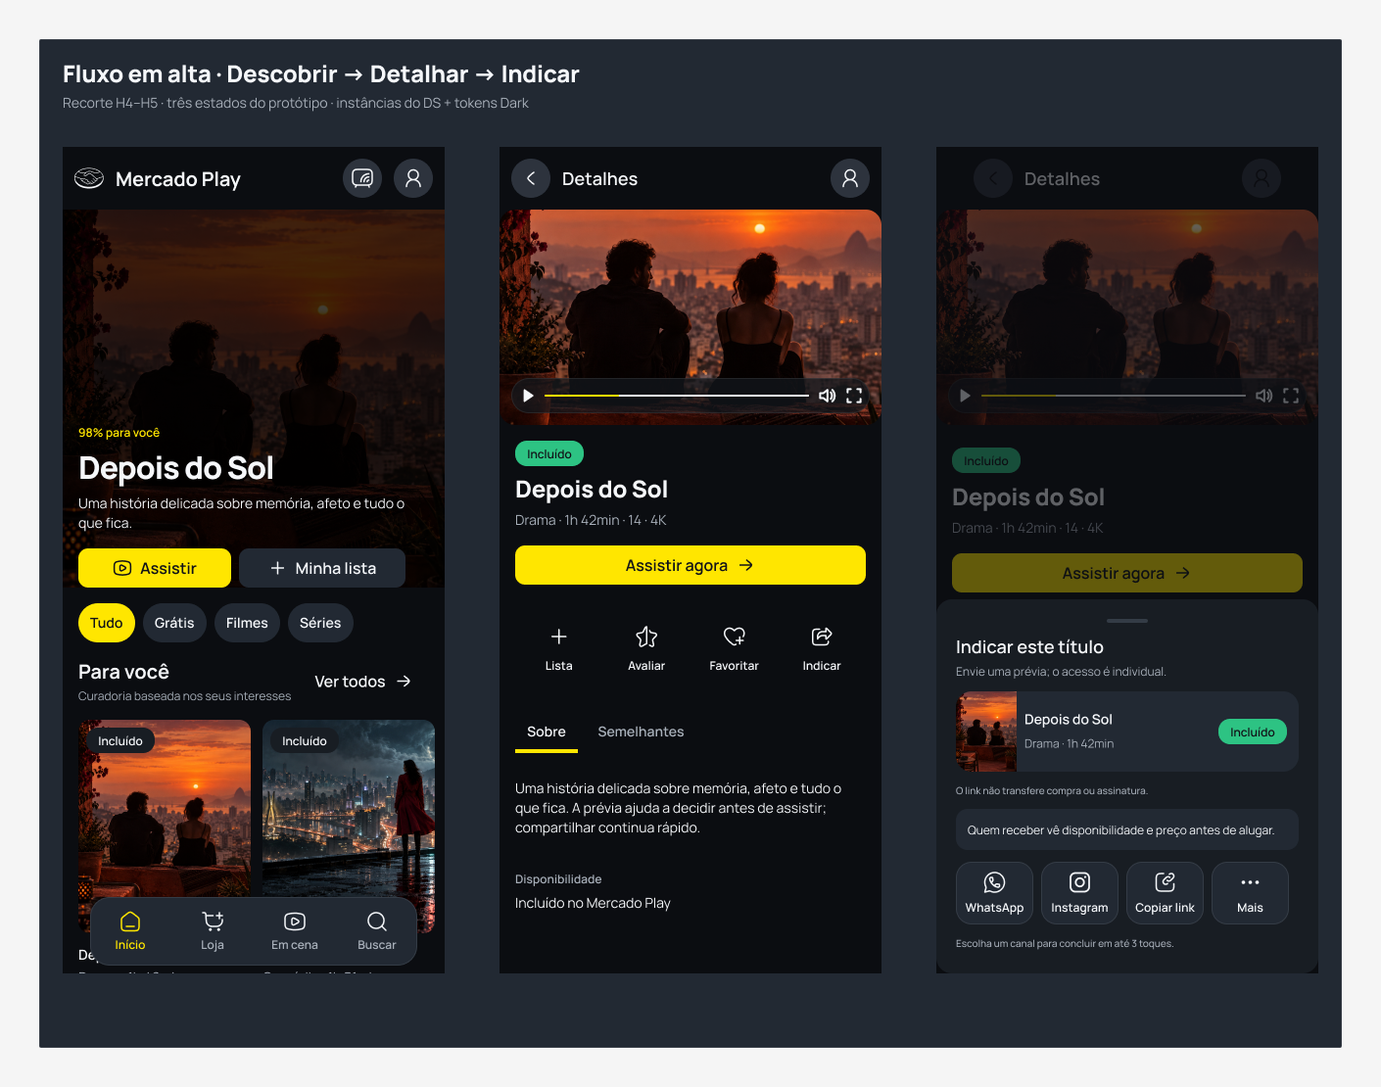
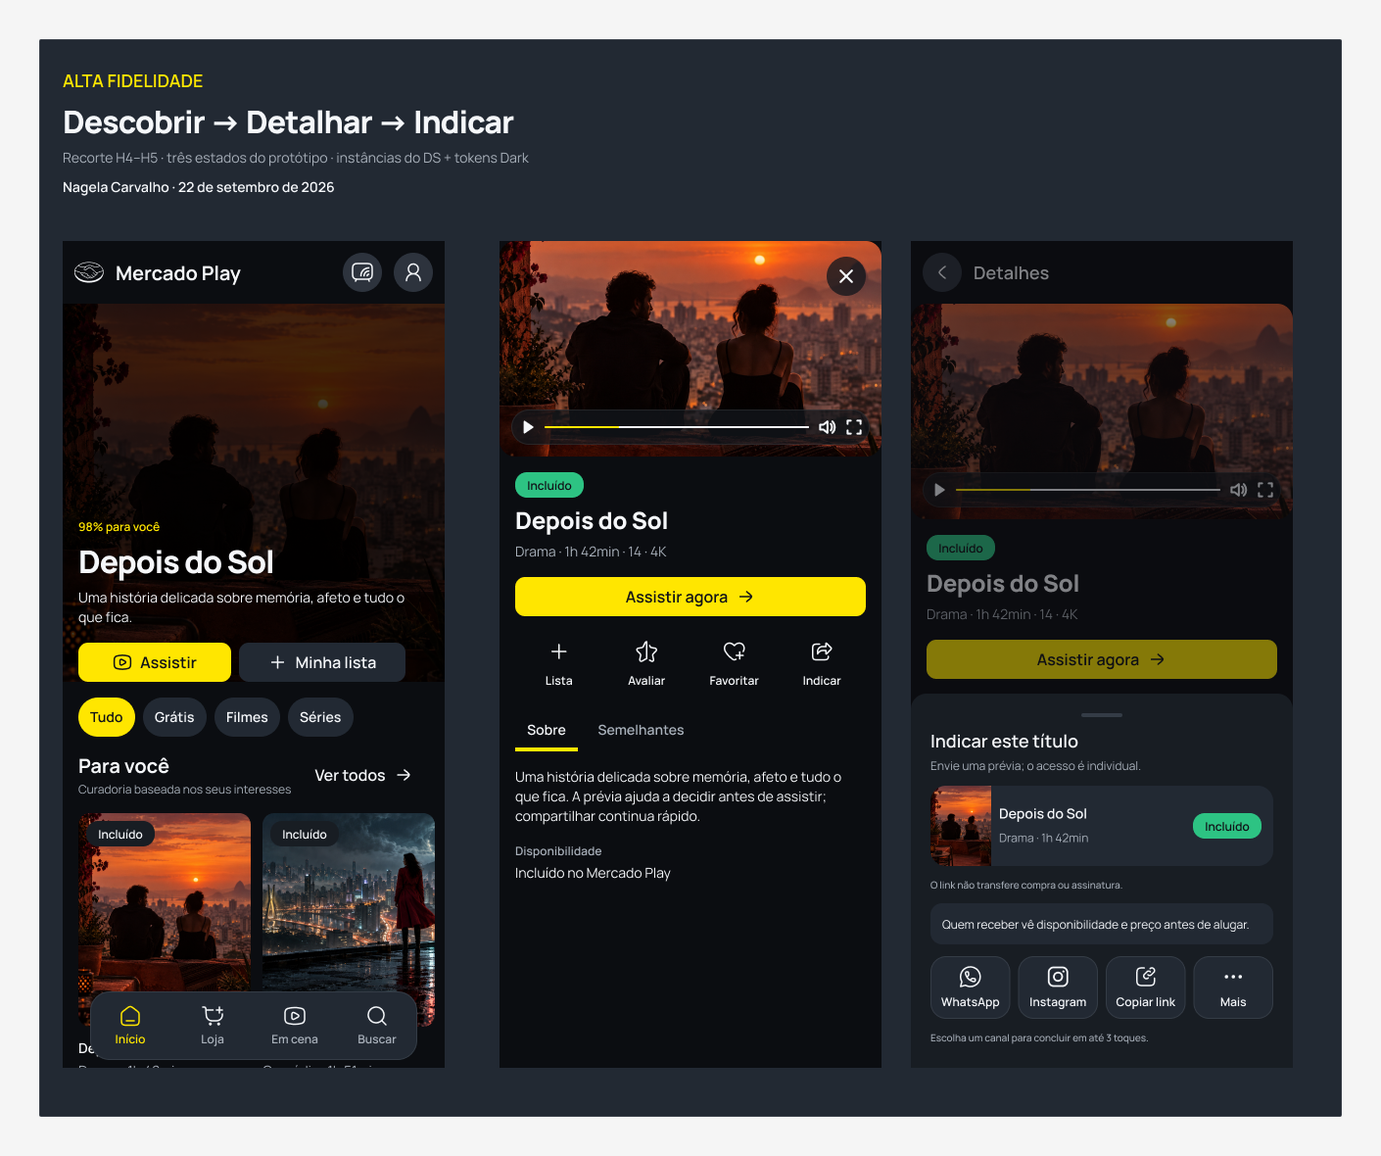
Refina narrativa do case e entrega Figma

diff --git a/index.html b/index.html
@@ -29,9 +29,9 @@
     <main id="conteudo">
       <section class="hero" id="inicio">
         <div class="hero-copy">
-          <p class="eyebrow">Product Design Case · Mercado Play · 2026</p>
-          <h1>Da descoberta à decisão compartilhada.</h1>
-          <p class="hero-lede">Uma experiência para ajudar pessoas a encontrar o que assistir, entender como acessar e transformar afinidade em recomendações e listas úteis.</p>
+          <p class="eyebrow">Nagela Carvalho · Desafio de Product Design · 22 de setembro de 2026</p>
+          <h1>Escolher o que assistir deveria ser a parte fácil.</h1>
+          <p class="hero-lede">Investiguei como as pessoas descobrem um título, decidem se vale assistir e compartilham essa escolha. A resposta foi um fluxo que liga curadoria, prévias, acesso e listas sem tirar a pessoa do contexto.</p>
           <div class="hero-actions">
             <a class="button primary" href="alta/dist/">Explorar protótipo <span aria-hidden="true">↗</span></a>
             <a class="button secondary" href="#resumo">Ler o case</a>
@@ -52,8 +52,8 @@
             <h2>O catálogo existia. A escolha ainda exigia esforço.</h2>
           </div>
           <div class="prose">
-            <p>O briefing apontava espaço para aumentar a frequência de uso do Mercado Play. A investigação mostrou um problema anterior à retenção: diante de muitas opções e diferentes modalidades de acesso, a pessoa ainda precisa construir confiança para escolher.</p>
-            <p>A proposta conecta descoberta, prévias curtas, detalhe, acesso, favoritos, avaliação e listas. O recorte transforma ações isoladas em um ciclo: <strong>descobrir → escolher → guardar ou indicar → acessar → retornar</strong>.</p>
+            <p>O desafio pedia caminhos para aumentar a frequência de uso do Mercado Play. Ao percorrer o produto e organizar as situações descritas no briefing, percebi que o retorno depende de uma decisão anterior: encontrar algo interessante e saber se é possível assistir.</p>
+            <p>Por isso, comecei pela jornada de escolha. Desenhei entradas para descobrir por intenção ou por uma prévia curta, deixei o acesso visível no detalhe e conectei favoritos, avaliações e listas ao momento em que a pessoa já tem um motivo para agir.</p>
           </div>
         </div>
         <div class="metric-grid" aria-label="Princípios da proposta">
@@ -70,8 +70,8 @@
             <h2>“O que assistir?” não é uma pergunta resolvida apenas com mais títulos.</h2>
           </div>
           <div class="prose">
-            <p>Uma revisão do produto atual e de padrões de streaming revelou três fricções recorrentes: descoberta fragmentada, sinais sociais pouco conectados à escolha e condições de acesso que surgem tarde.</p>
-            <p class="note"><strong>Limite da evidência:</strong> a análise parte do briefing, de telas do fluxo atual e de walkthrough heurístico da autora. Não houve teste externo concluído; portanto, os pontos abaixo orientam hipóteses, não comprovam causalidade com a métrica de negócio.</p>
+            <p>Revisei as telas existentes e percorri tarefas de descoberta, busca e detalhe. Encontrei três pontos para investigar: como comparar opções quando ainda não sei o nome, como aproveitar o gosto de outras pessoas e quando informar preço ou disponibilidade.</p>
+            <p class="note"><strong>Origem dos achados:</strong> briefing, telas do produto e análise heurística feita por mim. Não concluí um teste com participantes; estas observações orientam o desenho e ainda precisam de validação comportamental.</p>
           </div>
         </div>
         <div class="evidence-grid">
@@ -105,7 +105,7 @@
         <div class="section-label">02 · Mudança de direção</div>
         <div class="section-grid">
           <div><h2>De “compartilhar um título” para sustentar a jornada de decisão.</h2></div>
-          <div class="prose"><p>A primeira direção concentrava valor na indicação. A revisão mostrou que compartilhar é consequência de uma escolha com confiança. O escopo foi ampliado para cobrir o que acontece antes e depois da indicação.</p></div>
+          <div class="prose"><p>Comecei pela ideia de facilitar a indicação de títulos. Ao mapear o caminho até esse gesto, encontrei uma lacuna: não adiantava melhorar o envio se a pessoa ainda tinha dificuldade para escolher o que indicar. Reorganizei o recorte em torno da decisão, mantendo a indicação como uma das saídas possíveis.</p></div>
         </div>
         <div class="before-after">
           <article><span>Direção inicial</span><h3>Facilitar a recomendação</h3><p>O fluxo começava quando alguém já sabia o que indicar.</p></article>
@@ -130,7 +130,7 @@
         <div class="section-label">03 · Árvore de oportunidades</div>
         <div class="section-grid">
           <div><h2>Um resultado, três grupos de oportunidade e oito hipóteses.</h2></div>
-          <div class="prose"><p>A árvore mantém cada solução ligada a um comportamento observável. Ela também explicita o que ainda depende de teste ou de regras reais do produto.</p><a class="text-link" href="22-arvore-de-oportunidades.html">Abrir árvore detalhada <span aria-hidden="true">↗</span></a></div>
+          <div class="prose"><p>Usei a árvore para evitar que a solução virasse uma coleção de telas. Para cada oportunidade, registrei a hipótese, a resposta de interface e o comportamento que precisaria observar em uma avaliação futura.</p><a class="text-link" href="22-arvore-de-oportunidades.html">Abrir árvore detalhada <span aria-hidden="true">↗</span></a></div>
         </div>
         <div class="tree" aria-label="Resumo da árvore de oportunidades">
           <div class="tree-root"><span>Resultado desejado</span><strong>Transformar descoberta em escolha, ação e retorno</strong></div>
@@ -174,7 +174,7 @@
         <div class="section-label">05 · Wireflow como contrato de experiência</div>
         <div class="section-grid">
           <div><h2>Antes da alta, o wireflow tornou o escopo visível e testável.</h2></div>
-          <div class="prose"><p>O wireflow conectou cada hipótese a telas, decisões, estados e retornos. Ele foi usado para revisar a jornada completa, eliminar becos sem saída e definir o que precisava existir no Design System antes de investir em acabamento.</p><div class="wireflow-links"><a class="text-link" href="https://www.figma.com/design/v542kEZserQ1CoRFkdFfVI/Mercado-Livre---Desafio?node-id=152-206" target="_blank" rel="noreferrer">Ver o mapa de decisões no Figma <span aria-hidden="true">↗</span></a><a class="text-link" href="15-wireflow-clicavel.html?mode=concept">Explorar o wireflow clicável <span aria-hidden="true">↗</span></a></div></div>
+          <div class="prose"><p>Desenhei o wireflow antes da alta para ver onde cada ação começava e terminava. Ele expôs retornos ausentes, sobreposição de sheets e decisões que pediam outro nível de navegação. Também serviu para decidir quais estados e componentes o Design System teria de cobrir.</p><div class="wireflow-links"><a class="text-link" href="https://www.figma.com/design/v542kEZserQ1CoRFkdFfVI/Mercado-Livre---Desafio?node-id=152-206" target="_blank" rel="noreferrer">Ver o mapa de decisões no Figma <span aria-hidden="true">↗</span></a><a class="text-link" href="15-wireflow-clicavel.html?mode=concept">Explorar o wireflow clicável <span aria-hidden="true">↗</span></a></div></div>
         </div>
         <div class="wireflow-map" aria-label="Resumo do wireflow">
           <article><span>Entradas</span><strong>Início · Buscar · Em cena</strong><small>H1–H3 · descoberta por contexto, pista ou prévia</small></article>
@@ -197,7 +197,7 @@
         <div class="section-label">06 · Solução proposta</div>
         <div class="section-grid">
           <div><h2>Uma arquitetura que organiza intenção sem esconder o catálogo.</h2></div>
-          <div class="prose"><p>Quatro destinos principais mantêm o modelo mental compacto: Início, Loja, Em cena e Buscar. Perfil reúne memória e colaboração. O detalhe conecta conteúdo, acesso e ações.</p></div>
+          <div class="prose"><p>Mantive quatro destinos na navegação principal: Início, Loja, Em cena e Buscar. O detalhe concentra a decisão sobre um título; Minha área guarda o que a pessoa quer rever ou decidir com outras pessoas. Assim, ações rápidas não competem com a navegação.</p></div>
         </div>
         <div class="solution-grid">
           <article><span>Início</span><h3>Curadoria por intenção</h3><p>Continuidade, interesses, novidades e rankings aparecem em trilhos distintos.</p></article>
@@ -213,7 +213,7 @@
         <div class="section-label">07 · Protótipo em alta fidelidade</div>
         <div class="section-grid">
           <div><h2>Uma experiência navegável, com estados e microinterações.</h2></div>
-          <div class="prose"><p>O protótipo simula descoberta, catálogo, prévias, detalhe, favoritos, avaliação, criação e gestão de listas, indicação e acesso. Os títulos e transações são fictícios.</p><a class="text-link" href="alta/dist/">Abrir em tela cheia <span aria-hidden="true">↗</span></a><br><a class="text-link" href="https://www.figma.com/design/v542kEZserQ1CoRFkdFfVI/Mercado-Livre---Desafio?node-id=180-1285" target="_blank" rel="noreferrer">Ver o fluxo em alta no Figma <span aria-hidden="true">↗</span></a></div>
+          <div class="prose"><p>Prototipei os caminhos que testam as hipóteses centrais: descobrir sem saber o nome, decidir por uma prévia, entender o acesso e guardar ou indicar um título. Também incluí a criação e a gestão de listas para observar a decisão em grupo. Catálogo e transações são simulados.</p><a class="text-link" href="alta/dist/">Abrir em tela cheia <span aria-hidden="true">↗</span></a></div>
         </div>
         <div class="prototype-stage">
           <div class="prototype-embed">
@@ -226,7 +226,7 @@
         <div class="section-label">08 · Design System e código</div>
         <div class="section-grid">
           <div><h2>Tokens e componentes sustentam o protótipo.</h2></div>
-          <div class="prose"><p>O mini Design System usa uma taxonomia próxima ao shadcn, adaptada ao contexto do Mercado Play. Foundations, Core e Compositions compartilham tokens de cor, tipografia, espaçamento, raio, superfície e movimento.</p><a class="text-link" href="alta/dist/ds.html">Abrir documentação do DS <span aria-hidden="true">↗</span></a></div>
+          <div class="prose"><p>Organizei tokens e componentes no Figma antes de aprofundar as telas. No código, customizei a base shadcn para manter a mesma tipografia, cores, espaços, raios e estados. Isso tornou mais fácil corrigir um padrão na origem e reaplicá-lo no protótipo.</p><a class="text-link" href="alta/dist/ds.html">Abrir documentação do DS <span aria-hidden="true">↗</span></a></div>
         </div>
         <div class="ds-strip">
           <div><span class="swatch yellow"></span><strong>Accent</strong><small>Marca e seleção</small></div>
@@ -242,8 +242,8 @@
       <section class="section process" id="processo">
         <div class="section-label">09 · Figma ↔ IA ↔ Design System ↔ protótipo</div>
         <div class="section-grid">
-          <div><h2>A IA acelerou a execução porque o raciocínio de design foi estruturado antes.</h2></div>
-          <div class="prose"><p>Eu sintetizei o desafio em evidências, dores, hipóteses, critérios e limites. Essa comunicação virou um contrato de trabalho com a IA: cada tela precisava responder a uma hipótese, usar componentes existentes e preservar a lógica validada no wireflow.</p><p>A IA apoiou organização, variações, documentação e implementação. A curadoria, as decisões de produto, a crítica visual e a definição do que entrava ou saía do escopo permaneceram sob minha responsabilidade.</p></div>
+          <div><h2>Do Figma ao código, mantive a mesma lógica de produto.</h2></div>
+          <div class="prose"><p>Transformei o briefing em hipóteses e critérios concretos antes de pedir variações à IA. Em cada iteração, apontei o problema, a referência no wireflow e o componente do sistema que deveria resolvê-lo. Quando a interface se afastava dessa base, revisei o padrão no DS e voltei ao fluxo.</p><p>A IA me ajudou a explorar alternativas e implementar mais rápido. Meu trabalho foi escolher o recorte, avaliar o que fazia sentido para a jornada, ajustar o Figma e conferir a consistência entre design e código.</p></div>
         </div>
         <div class="process-loop" aria-label="Ciclo de trabalho entre Figma, IA e código">
           <article><span>01 · Síntese</span><strong>Evidência → hipótese</strong><p>Dores, jobs, riscos e critérios observáveis em vez de pedidos soltos de tela.</p></article>
@@ -252,6 +252,10 @@
           <article><span>04 · Código com IA</span><strong>Sistema → protótipo</strong><p>shadcn, Radix e Motion foram customizados pelo mesmo vocabulário do Figma.</p></article>
           <article><span>05 · Revisão</span><strong>Protótipo → aprendizado</strong><p>Heurísticas e achados voltaram para hipóteses, wireflow, DS e interface.</p></article>
         </div>
+        <div class="delivery-note">
+          <div><span>DO ARQUIVO AO LINK</span><h3>O protótipo também é uma entrega de código.</h3><p>Organizei o projeto no GitHub, com o case, a documentação do Design System e o protótipo navegável no mesmo repositório. A versão publicada na Vercel permite percorrer os fluxos sem abrir arquivos locais; o histórico de commits registra como a solução mudou ao longo das iterações.</p></div>
+          <div class="delivery-links"><a class="button secondary" href="https://github.com/nanag-carvalho/Desafio-Meli" target="_blank" rel="noreferrer">Ver repositório no GitHub <span aria-hidden="true">↗</span></a><a class="button secondary" href="alta/dist/">Explorar protótipo <span aria-hidden="true">↗</span></a></div>
+        </div>
         <div class="figma-showcase" id="figma-file">
           <div class="figma-showcase-head">
             <div>
@@ -259,26 +263,22 @@
               <h3>Wireflow, Design System e fluxo em alta no mesmo arquivo.</h3>
               <p>O entregável no Figma reúne o mapa da jornada, o Style Guide com tokens e componentes vinculados e uma página própria para o fluxo em alta fidelidade.</p>
             </div>
-            <a class="button secondary" href="https://www.figma.com/design/v542kEZserQ1CoRFkdFfVI/Mercado-Livre---Desafio?node-id=180-1285" target="_blank" rel="noreferrer">Abrir no Figma <span aria-hidden="true">↗</span></a>
+            <a class="button secondary" href="https://www.figma.com/design/v542kEZserQ1CoRFkdFfVI/Mercado-Livre---Desafio" target="_blank" rel="noreferrer">Abrir arquivo no Figma <span aria-hidden="true">↗</span></a>
           </div>
           <div class="figma-preview">
             <figure>
-              <a href="https://www.figma.com/design/v542kEZserQ1CoRFkdFfVI/Mercado-Livre---Desafio?node-id=180-1285" target="_blank" rel="noreferrer" aria-label="Abrir o fluxo em alta fidelidade no Figma"><img src="assets/case/figma-alta-fidelidade.png" alt="Página Alta fidelidade no Figma com as telas de descoberta, detalhe e indicação construídas com componentes do Design System" loading="lazy"></a>
-              <figcaption>Fluxo em alta no Figma: Descobrir → Detalhar → Indicar. As telas usam instâncias do Design System.</figcaption>
+              <img src="assets/case/figma-alta-fidelidade.png" alt="Página Alta fidelidade no Figma com as telas de descoberta, detalhe e indicação construídas com componentes do Design System" loading="lazy">
+              <figcaption>Recorte da página Alta fidelidade: Descobrir → Detalhar → Indicar.</figcaption>
             </figure>
             <div class="figma-preview-copy">
-              <span>ARQUIVO DE DESIGN</span>
-              <h4>Explore cada parte do entregável.</h4>
-              <p>O fluxo em alta está separado do Style Guide para facilitar a revisão. O Figma pode solicitar login conforme a permissão da conta.</p>
-              <div class="figma-artifact-links">
-                <a href="https://www.figma.com/design/v542kEZserQ1CoRFkdFfVI/Mercado-Livre---Desafio?node-id=28-279" target="_blank" rel="noreferrer">Wireflow e jornada <span aria-hidden="true">↗</span></a>
-                <a href="https://www.figma.com/design/v542kEZserQ1CoRFkdFfVI/Mercado-Livre---Desafio?node-id=59-431" target="_blank" rel="noreferrer">Style Guide, tokens e componentes <span aria-hidden="true">↗</span></a>
-                <a href="https://www.figma.com/design/v542kEZserQ1CoRFkdFfVI/Mercado-Livre---Desafio?node-id=180-1285" target="_blank" rel="noreferrer">Fluxo em alta fidelidade <span aria-hidden="true">↗</span></a>
-              </div>
-              <details>
-                <summary>Visualizar o fluxo em alta nesta página</summary>
-                <iframe src="https://embed.figma.com/design/v542kEZserQ1CoRFkdFfVI/Mercado-Livre---Desafio?node-id=180-1285&amp;embed-host=share" title="Fluxo em alta fidelidade do Mercado Play no Figma" loading="lazy" allowfullscreen></iframe>
-              </details>
+              <span>NO ARQUIVO DO FIGMA</span>
+              <h4>Uma fonte para revisar o processo e a interface.</h4>
+              <p>As páginas estão organizadas no próprio Figma. O arquivo reúne:</p>
+              <ul class="figma-file-map">
+                <li><strong>Wireflow</strong><span>Jornada, decisões e caminhos ligados às hipóteses.</span></li>
+                <li><strong>Style Guide</strong><span>Tokens dark, tipografia, componentes e estados.</span></li>
+                <li><strong>Alta fidelidade</strong><span>Fluxo Descobrir → Detalhar → Indicar com instâncias do DS.</span></li>
+              </ul>
             </div>
           </div>
         </div>
@@ -288,14 +288,14 @@
         <div class="section-label">10 · Validação e aprendizado</div>
         <div class="section-grid">
           <div><h2>O que foi verificado e o que ainda precisa de pessoas reais.</h2></div>
-          <div class="prose"><p>O fluxo passou por walkthrough heurístico, auditoria de consistência do DS e revisão de estados. Isso permitiu corrigir hierarquia, feedback, navegação secundária, sheets, scroll e distinção entre ações.</p></div>
+          <div class="prose"><p>Revisei os fluxos por heurísticas e comparei o protótipo com o Design System. Essa leitura encontrou problemas concretos de hierarquia, feedback, navegação secundária, sheets e scroll, corrigidos durante a iteração. A próxima etapa é observar pessoas realizando as tarefas.</p></div>
         </div>
         <div class="validation-grid">
           <article><span>Revisado</span><h3>Consistência e prevenção</h3><ul><li>Hierarquia de ações e estados</li><li>Headers primário e contextual</li><li>Feedback após ações</li><li>Uso de tokens e componentes</li></ul></article>
           <article><span>Pendente</span><h3>Evidência comportamental</h3><ul><li>Prioridade de Em cena</li><li>Compreensão de Listas</li><li>Permissões colaborativas</li><li>Clareza de preço e prazo</li></ul></article>
           <article><span>Dependência</span><h3>Regras de produto</h3><ul><li>Catálogo e direitos reais</li><li>Aluguel, compra e presente</li><li>Privacidade dos sinais</li><li>Ranking e recomendação</li></ul></article>
         </div>
-        <div class="learning"><strong>Aprendizado central</strong><p>A recomendação começa antes do botão de compartilhar. Ela depende de descoberta relevante, confiança no título e clareza sobre como a outra pessoa poderá acessá-lo.</p></div>
+        <div class="learning"><strong>O que este recorte mostrou</strong><p>Indicar um título é o fim de uma sequência de pequenas decisões. Para tornar esse gesto útil, precisei trabalhar também o que a pessoa vê antes: motivo para considerar o título, informação para escolher e clareza sobre como acessá-lo.</p></div>
       </section>
 
       <section class="section next">
@@ -322,6 +322,7 @@
           <a href="26-relatorio-revisao.html"><span>Iteração</span><strong>Registro de achados</strong><small>Anotações conectadas a tela e hipótese.</small></a>
           <a href="alta/dist/"><span>Experiência</span><strong>Protótipo em alta</strong><small>Fluxos, estados e interações.</small></a>
           <a href="alta/dist/ds.html"><span>Sistema</span><strong>Design System</strong><small>Foundations, Core e Compositions.</small></a>
+          <a href="https://github.com/nanag-carvalho/Desafio-Meli" target="_blank" rel="noreferrer"><span>Código</span><strong>Repositório no GitHub</strong><small>Case, protótipo e histórico das iterações.</small></a>
         </div>
       </section>
     </main>

diff --git a/case.css b/case.css
@@ -27,6 +27,10 @@
 .process-loop article:not(:last-child):after{content:"→";position:absolute;z-index:2;right:-20px;top:50%;width:28px;height:28px;display:grid;place-items:center;border-radius:50%;background:var(--yellow);color:var(--yellow-ink);font-weight:800;transform:translateY(-50%)}
 .process-loop strong{display:block;margin:38px 0 8px;font-size:17px;line-height:1.3}
 .process-loop p{margin:0;color:var(--muted);font-size:13px}
+.delivery-note{display:flex;align-items:end;justify-content:space-between;gap:32px;margin-top:16px;padding:24px;border:1px solid var(--line);border-radius:var(--radius-md);background:var(--surface)}
+.delivery-note>div:first-child{max-width:720px}.delivery-note span{color:var(--yellow);font-size:10px;font-weight:800;letter-spacing:.1em}.delivery-note h3{margin:10px 0 6px;font-size:21px;line-height:1.25;letter-spacing:-.03em}.delivery-note p{margin:0;color:var(--muted);font-size:14px}.delivery-links{display:flex;flex-direction:column;gap:8px;flex:none}.delivery-links .button{min-height:40px;white-space:nowrap}
+@media(max-width:900px){.delivery-note{align-items:stretch;flex-direction:column}.delivery-links{flex-direction:row;flex-wrap:wrap}}
+@media(max-width:620px){.delivery-links{flex-direction:column}}
 @media(max-width:1050px){.process-loop{grid-template-columns:repeat(2,1fr)}.process-loop article:not(:last-child):after{display:none}.wireflow-map{grid-template-columns:1fr 1fr}.flow-arrow{display:none}}
 @media(max-width:900px){.evidence-trace{grid-template-columns:1fr}.wireflow-usage{grid-template-columns:repeat(2,1fr)}}
 @media(max-width:620px){.wireflow-map,.wireflow-usage,.process-loop{grid-template-columns:1fr}.process-loop article{min-height:auto}.brand-mark{width:28px;height:28px}}
@@ -72,6 +76,8 @@
 @media(max-width:900px) and (min-width:621px){.prototype-embed{height:805px}.prototype-stage .prototype-embed iframe{width:111.12%;height:890px;transform:scale(.9)}}
 @media(max-width:620px){.prototype-stage{margin-left:0;margin-right:0}.prototype-embed{height:870px;border-radius:var(--radius-md)}.prototype-stage .prototype-embed iframe{width:100%;height:870px;transform:none}}
 @media(max-width:620px){.prototype-embed{height:684px}.prototype-stage .prototype-embed iframe{width:128.21%;height:870px;transform:scale(.78);transform-origin:top left}}
-.figma-artifact-links{display:grid;gap:8px;margin-bottom:20px}
-.figma-artifact-links a{display:flex;justify-content:space-between;align-items:center;gap:16px;padding:12px 14px;border:1px solid var(--line);border-radius:var(--radius-sm);background:var(--surface);color:var(--text);text-decoration:none;font-size:13px;font-weight:700}
-.figma-artifact-links a:hover{border-color:var(--blue)}
+.figma-file-map{list-style:none;margin:0;padding:0;border-top:1px solid var(--line)}
+.figma-file-map li{display:grid;grid-template-columns:120px 1fr;gap:16px;padding:15px 0;border-bottom:1px solid var(--line);font-size:13px}
+.figma-file-map strong{color:var(--text)}
+.figma-file-map span{color:var(--muted)}
+@media(max-width:620px){.figma-file-map li{grid-template-columns:1fr;gap:3px}}
